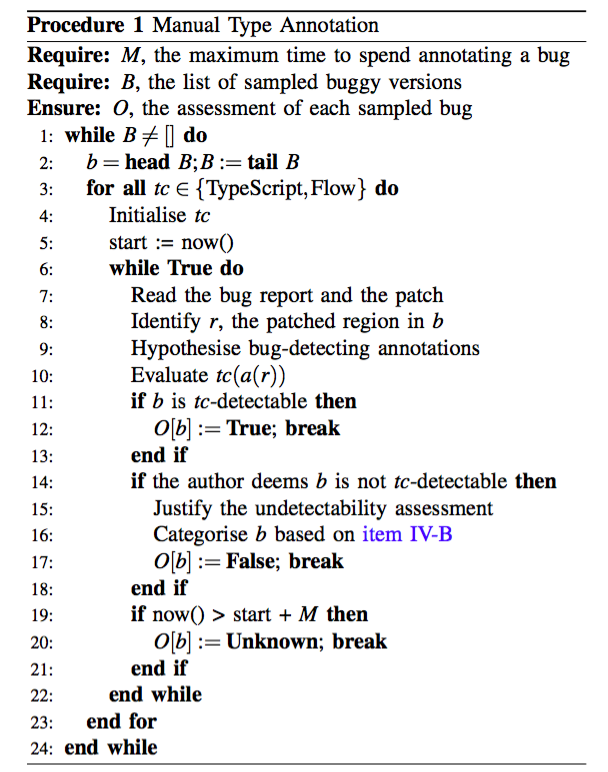
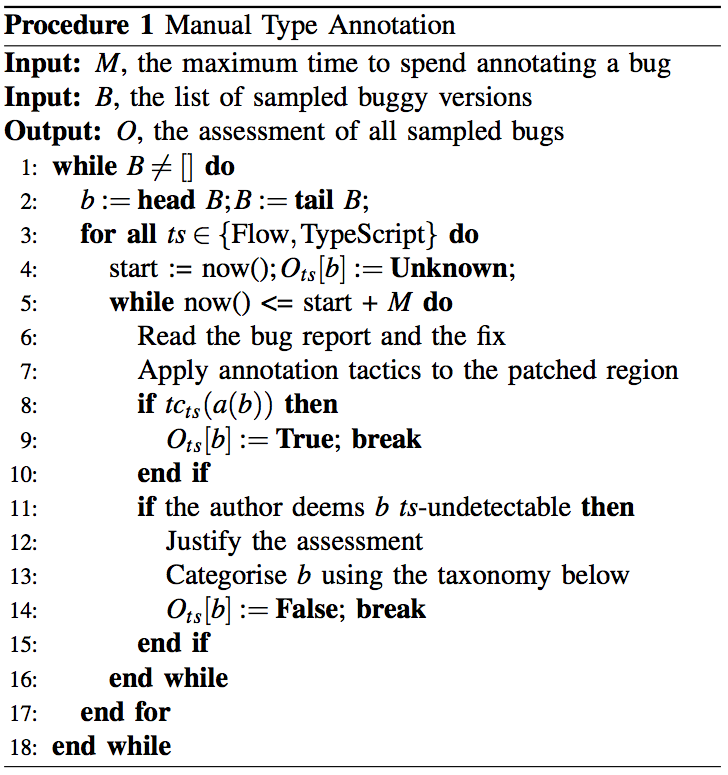
update the discussion of the annotation procedure; update the results

Changed region(s): [[0.0, 0.0, 1.0, 0.9948]]

diff --git a/index.html b/index.html
@@ -208,10 +208,11 @@
         <div class="collapse navbar-collapse" id="myNavbar">
             <ul class="nav navbar-nav navbar-right">
                 <li><a href="#about">OVERVIEW</a></li>
+                <!-- <li><a href="#definition">DEFINITION</a></li> -->
                 <li><a href="#methodology">METHODOLOGY</a></li>
                 <li><a href="#results">RESULTS</a></li>
                 <li><a href="#casestudy">CASE STUDY</a></li>
-                <li><a href="#data">DATA</a></li>
+                <!-- <li><a href="#data">DATA</a></li> -->
                 <li><a href="#contact">CONTACT</a></li>
             </ul>
         </div>
@@ -255,6 +256,37 @@
     </div>
 </div>
 
+<!-- Container (Definition Section) -->
+<!--
+<div id="definition" class="container-fluid">
+    <div class="row">
+        <div class="col-sm-8">
+            <h2>Overview</h2>
+            <p class="text-justify">JavaScript is growing explosively and is now
+            used in large mature projects even outside the web domain.
+            JavaScript is also a dynamically typed language for which static
+            type systems, notably Facebook’s Flow and Microsoft’s TypeScript,
+            have been written. What benefits do these static type systems
+            provide?</p>
+            <p class="text-justify">Leveraging JavaScript project histories, we
+            select a fixed bug and check out the code just prior to the fix. We
+            manually add type annotations to the buggy code and test whether
+            Flow and TypeScript report an error on the buggy code, thereby
+            possibly prompting a developer to fix the bug before its public
+            release. We then report the proportion of bugs on which these type
+            systems reported an error. Evaluating static type systems against
+            public bugs, which have survived testing and review, is
+            conservative: it understates their effectiveness at detecting bugs
+            during private development, not to mention their other benefits such
+            as facilitating code search/completion and serving as documentation.
+            Despite this uneven playing field, our central finding is that both
+            static type systems find an important percentage of public bugs:
+            both Flow 0.30 and TypeScript 2.0 successfully detect 15%!</p>
+        </div>
+    </div>
+</div>
+-->
+
 <!-- Container (Methodology Section) -->
 <div id="methodology" class="container-fluid text-center bg-grey">
     <h2>Methodology</h2>
@@ -286,28 +318,25 @@
         </div>
         <div class="col-sm-7">
             <p class="text-justify">We seek to construct a corpus of bugs that
-            is representative and sufficiently large to support
-                statistical inference. As always, achieving representativeness
-                is the main difficulty and uniform sampling our main tool. We
-                cannot sample bugs directly, but rather commits that we must
-                classify into fixes and nonfixes. Why fixes? Because a fix is
-                often labeled as such, its parent is almost certainly buggy and
-                it identifies the region in the parent that a developer deemed
-                relevant to the bug. To identify bug-fixing commits, we consider
-                only projects that use issue trackers, then, in parallel, we
-                look for bug report references in commit messages and commit ids
-                (SHAs) in bug reports. This heuristic is not only noisy; it must
-                also contend with bias in project selection and bias introduced
-                by missing links.</p>
-            <p class="text-justify">Striving for generality, we used the
-                standard sample size computation to determine the number of bugs
-                needed to achieve a specified confidence interval. On
-                19/08/2015, there were 3,910,969 closed bug reports in
-                JavaScript projects on GitHub. We use this number to approximate
-                the population. We set the confidence level and confidence
-                interval to be 95% and 5%, respectively. The result shows that a
-                sample of 384 bugs is sufficient for the experiment, which we
-                rounded to 400 for convenience.</p>
+            is representative and sufficiently large to support statistical
+            inference. As always, achieving representativeness is the main
+            difficulty, which we address by uniform sampling. We cannot sample
+            bugs directly, but rather commits that we must classify into fixes
+            and non-fixes. Why fixes? Because a fix is often labelled as such,
+            its parent is almost certainly buggy and it identifies the region in
+            the parent that a developer deemed relevant to the bug. To identify
+            bug-fixing commits, we consider only projects that use issue
+            trackers, then we look for bug report references in commit messages
+            and commit ids (SHAs) in bug reports. This heuristic is not only
+            noisy; it must also contend with bias in project selection and bias
+            introduced by missing links.</p>
+            <p class="text-justify">We used the standard sample size computation
+            to determine the sample size. On 19/08/2015, there were 3,910,969
+            closed issues for JavaScript projects on GitHub, which we used to
+            approximate the population. We set the confidence level and
+            confidence interval to 95% and 5%, respectively. The calculation
+            showed that a sample of 384 bugs was sufficient for the experiment,
+            which we rounded to 400.</p>
             <p class="text-justify">Please click <a
             href="data/bugs.json"><strong>here</strong></a> for the list of the
             400 studied bugs.</p>
@@ -316,43 +345,35 @@
     <br><br>
     <h4>Annotation</h4><br>
     <div class="row">
-        <div class="col-sm-9">
+        <div class="col-sm-8">
             <p class="text-justify">Procedure 1 defines our manual type
             annotation procedure. Because we annotate each bug twice, once for
             each type system, our experiment is a within-subject repeated
             measure experiment. As such, a phenomenon known as learning effects
             may come into play, as knowledge gained from creating the
-            annotations for one type checker may aid in creating the annotation
-            for the other. To mitigate the learning effects, for a bug \(b\) in
-            \(B\), we first pick a type checker \(tc\) from TypeScript and Flow
-            uniformly at random, so that, on average, we consider as many bugs
-            for the first time for each type system (line 3). If b is not type
-            related “beyond a shadow of a doubt”, such as misunderstanding the
-            specification, we label it as undetectable under \(tc\) and
-            categorise it, skipping the annotation process. If not, we
-            initialise the environment: for Flow, we add a header comment
-            <code>/* @flow */</code> to the file we want to annotate, whereas
-            for TypeScript, we change the file extension from “.js" to “.ts”
-            (line 4). We read the bug report and the patch to identify the
-            patched region, a set of scopes are touched by the patch. Combining
-            human program comprehension and JavaScript’s read–eval–print loop
-            (REPL), e.g. Node.js, as appropriate, we conjecture a type
-            annotation that enables \(tc\) to detect \(b\). Following a set of
-            predefined annotation tactics, we add the hypothesised annotations
-            with the aim of driving \(tc\) to type check the region under
-            assessment. We ignore type errors that we consider unrelated to this
-            goal. Note that we are neither familiar with any project in our
-            corpus, nor experts in type systems. To combat this, we have striven
-            to be conservative: we annotate variables whose types are difficult
-            to infer with <code>any</code>. Then we type check the resulting
-            program. This process continues until we confirm that \(b\) is
-            tc-detectable because \(tc\) throws an error within the patched
-            region and the added annotations are nontrivial and consistent, or
-            we deem \(b\) is not tc-detectable, or we exceed the time budget
-            \(M\).
-            </p>
+            annotations for one type checker may speed annotating the other. To
+            mitigate learning effects, for a bug \(b\) in \(B\), we first pick a
+            type system \(ts\) from Flow and TypeScript uniformly at random, so
+            that, on average, we consider as many bugs for the first time for
+            each type system. If \(b\) is not type related “beyond a shadow of a
+            doubt”, such as misunderstanding the specification, we label it as
+            undetectable under \(ts\) and categorise it, skipping the annotation
+            process. If not, we read the bug report and the fix to identify the
+            patched region, the set of lexical scopes the fix changes. Combining
+            human comprehension and JavaScript’s read–eval–print loop (REPL),
+            e.g. Node.js, we attempt to understand the intended behavior of a
+            program and add consistent and minimal annotations that cause ts to
+            error on \(b\). We are not experts in type systems nor any project
+            in our corpus. To combat this, we have striven to be conservative:
+            we annotate variables whose types are difficult to infer with
+            <code>any</code>. Then we type check the resulting program. We
+            ignore type errors that we consider unrelated to this goal. We
+            repeat this process until we confirm that \(b\) is \(ts\)-detectable
+            because \(ts\) throws an error within the patched region and the
+            added annotations are consistent, or we deem \(b\) is not
+            \(ts\)-detectable, or we exceed the time budget \(M\).</p>
         </div>
-        <div class="col-sm-3">
+        <div class="col-sm-4">
             <img class="img-responsive center-block" src="images/annotation.png">
         </div>
     </div>
@@ -504,7 +525,7 @@
                     public bugs had they been used when those bugs were
                     introduced. Flow and TypeScript both catch a nontrivial
                     portion of public bugs. In our dataset, the bugs they can
-                    prevent largely overlap, with 8 exceptions: 5 bugs are only
+                    prevent largely overlap, with 6 exceptions: 3 bugs are only
                     Flow-preventable and 3 only TypeScript-preventable.</p>
                 </div>
                 <div class="panel-footer">
@@ -525,7 +546,7 @@
                     2.0, all types were nullable in TypeScript. TypeScript 2.0
                     added the compiler option <code>--strictNullChecks</code>,
                     which makes most types nonnullable. We reviewed our corpus
-                    and found that 22 bugs, an increase of 38%, are preventable
+                    and found that 22 bugs, an increase of 58%, are preventable
                     under TypeScript 2.0 but not under TypeScript 1.8.</p>
                 </div>
                 <div class="panel-footer">
